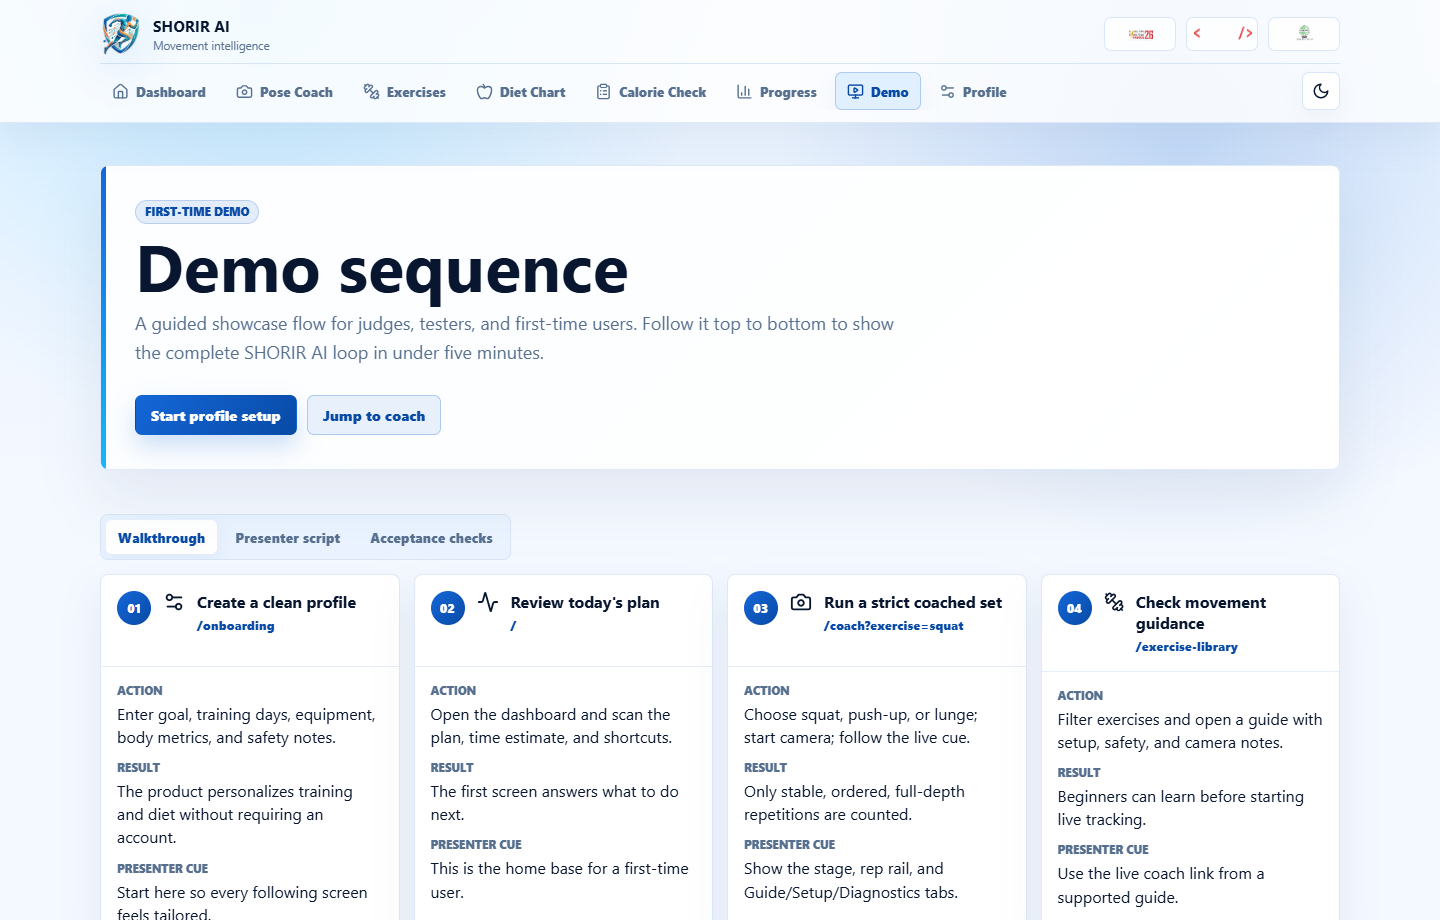
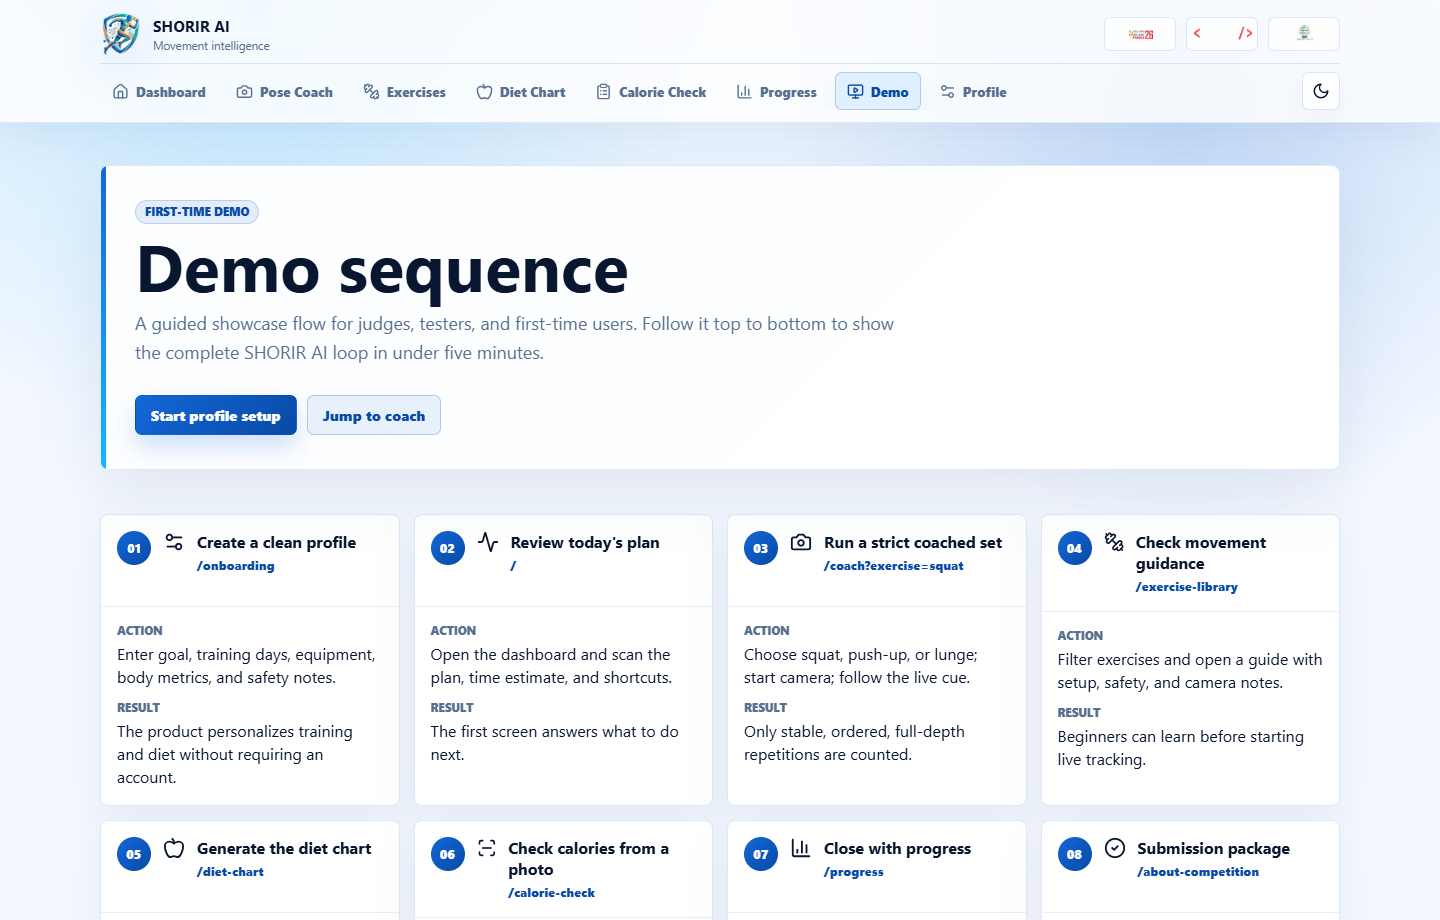
Simplify public demo walkthrough

diff --git a/apps/web/src/features/demo/DemoSequenceFeature.tsx b/apps/web/src/features/demo/DemoSequenceFeature.tsx
@@ -1,16 +1,10 @@
 import { Link } from "react-router-dom";
-import { useState } from "react";
 import { Badge } from "../../components/ui/badge";
 import { ButtonLink } from "../../components/ui/button";
 import { Card, CardContent, CardHeader } from "../../components/ui/card";
-import { Tabs, TabsContent, TabsList, TabsTrigger } from "../../components/ui/tabs";
 import { demoSequence } from "./demoSequence";
 
-type DemoView = "walkthrough" | "script" | "checks";
-
 export function DemoSequenceFeature() {
-  const [activeView, setActiveView] = useState<DemoView>("walkthrough");
-
   return (
     <section className="demo-page">
       <header className="feature-header demo-page__header">
@@ -26,109 +20,35 @@ export function DemoSequenceFeature() {
         </div>
       </header>
 
-      <Tabs className="demo-tabs">
-        <TabsList aria-label="Demo views">
-          <TabsTrigger active={activeView === "walkthrough"} onClick={() => setActiveView("walkthrough")}>
-            Walkthrough
-          </TabsTrigger>
-          <TabsTrigger active={activeView === "script"} onClick={() => setActiveView("script")}>
-            Presenter script
-          </TabsTrigger>
-          <TabsTrigger active={activeView === "checks"} onClick={() => setActiveView("checks")}>
-            Acceptance checks
-          </TabsTrigger>
-        </TabsList>
-
-        {activeView === "walkthrough" && (
-          <TabsContent>
-            <div className="demo-sequence">
-              {demoSequence.map((step, index) => {
-                const Icon = step.icon;
-                return (
-                  <Card className="demo-step" key={step.id}>
-                    <CardHeader>
-                      <span className="demo-step__index">{String(index + 1).padStart(2, "0")}</span>
-                      <Icon size={22} aria-hidden={true} />
-                      <div>
-                        <h2>{step.title}</h2>
-                        <Link to={step.route}>{step.route}</Link>
-                      </div>
-                    </CardHeader>
-                    <CardContent>
-                      <dl>
-                        <div>
-                          <dt>Action</dt>
-                          <dd>{step.action}</dd>
-                        </div>
-                        <div>
-                          <dt>Result</dt>
-                          <dd>{step.result}</dd>
-                        </div>
-                        <div>
-                          <dt>Presenter cue</dt>
-                          <dd>{step.presenterCue}</dd>
-                        </div>
-                      </dl>
-                    </CardContent>
-                  </Card>
-                );
-              })}
-            </div>
-          </TabsContent>
-        )}
-
-        {activeView === "script" && (
-          <TabsContent>
-            <Card className="demo-script">
+      <div className="demo-sequence">
+        {demoSequence.map((step, index) => {
+          const Icon = step.icon;
+          return (
+            <Card className="demo-step" key={step.id}>
               <CardHeader>
-                <Badge variant="outline">4-5 minutes</Badge>
-                <h2>Use this speaking flow</h2>
+                <span className="demo-step__index">{String(index + 1).padStart(2, "0")}</span>
+                <Icon size={22} aria-hidden={true} />
+                <div>
+                  <h2>{step.title}</h2>
+                  <Link to={step.route}>{step.route}</Link>
+                </div>
               </CardHeader>
               <CardContent>
-                <ol>
-                  {demoSequence.map((step) => (
-                    <li key={step.id}>
-                      <strong>{step.title}</strong>
-                      <span>{step.presenterCue}</span>
-                    </li>
-                  ))}
-                </ol>
+                <dl>
+                  <div>
+                    <dt>Action</dt>
+                    <dd>{step.action}</dd>
+                  </div>
+                  <div>
+                    <dt>Result</dt>
+                    <dd>{step.result}</dd>
+                  </div>
+                </dl>
               </CardContent>
             </Card>
-          </TabsContent>
-        )}
-
-        {activeView === "checks" && (
-          <TabsContent>
-            <div className="demo-checks">
-              <Card>
-                <CardHeader>
-                  <h2>Live coaching</h2>
-                </CardHeader>
-                <CardContent>
-                  <p>Valid squats, push-ups, and lunges count only after stable setup, ordered movement, and full depth.</p>
-                </CardContent>
-              </Card>
-              <Card>
-                <CardHeader>
-                  <h2>Food review</h2>
-                </CardHeader>
-                <CardContent>
-                  <p>Desktop upload and phone QR capture both reach the calorie review route with confidence and macro estimates.</p>
-                </CardContent>
-              </Card>
-              <Card>
-                <CardHeader>
-                  <h2>Submission</h2>
-                </CardHeader>
-                <CardContent>
-                  <p>Use the live URL, demo video, project presentation, technical report, and source ZIP from the deliverables folder.</p>
-                </CardContent>
-              </Card>
-            </div>
-          </TabsContent>
-        )}
-      </Tabs>
+          );
+        })}
+      </div>
     </section>
   );
 }

diff --git a/DESIGN.md b/DESIGN.md
@@ -31,7 +31,7 @@ Competition Showcase: bright, polished, white/blue, energetic, and still practic
 - Buttons use shadcn-style variants: default, secondary, outline, ghost, destructive.
 - Cards use 8px radii, thin blue-gray borders, and restrained shadows.
 - Badges are small, high-contrast status labels.
-- Tabs hide secondary content and prevent stacked layouts.
+- Tabs hide secondary content and prevent stacked layouts; do not expose dev-only or presenter-only panels in public user flows.
 - Inputs/selects/textarea use consistent white surfaces, blue focus rings, and stable heights.
 
 ## Motion

diff --git a/PRODUCT.md b/PRODUCT.md
@@ -26,7 +26,7 @@ SHORIR AI is a browser-first movement intelligence product for beginners and ret
 - Diet Chart: familiar meal planning with clear macro and calorie estimates.
 - Calorie Check: low-friction desktop upload or phone QR capture.
 - Progress: summaries, recent sessions, and coach diagnostics.
-- Demo: official first-time presenter flow and acceptance checklist.
+- Demo: public first-time walkthrough that shows the product loop without developer-only controls.
 - Onboarding: guided profile setup that unlocks better plans and nutrition.
 - About Competition: lightweight submission and competition context.
 